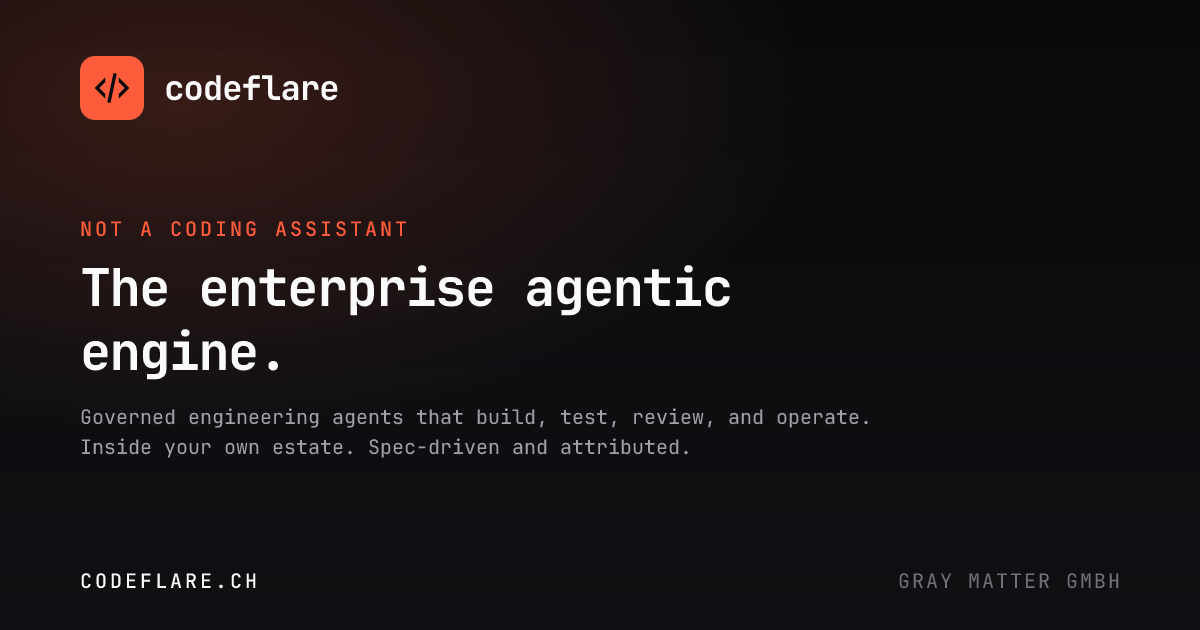
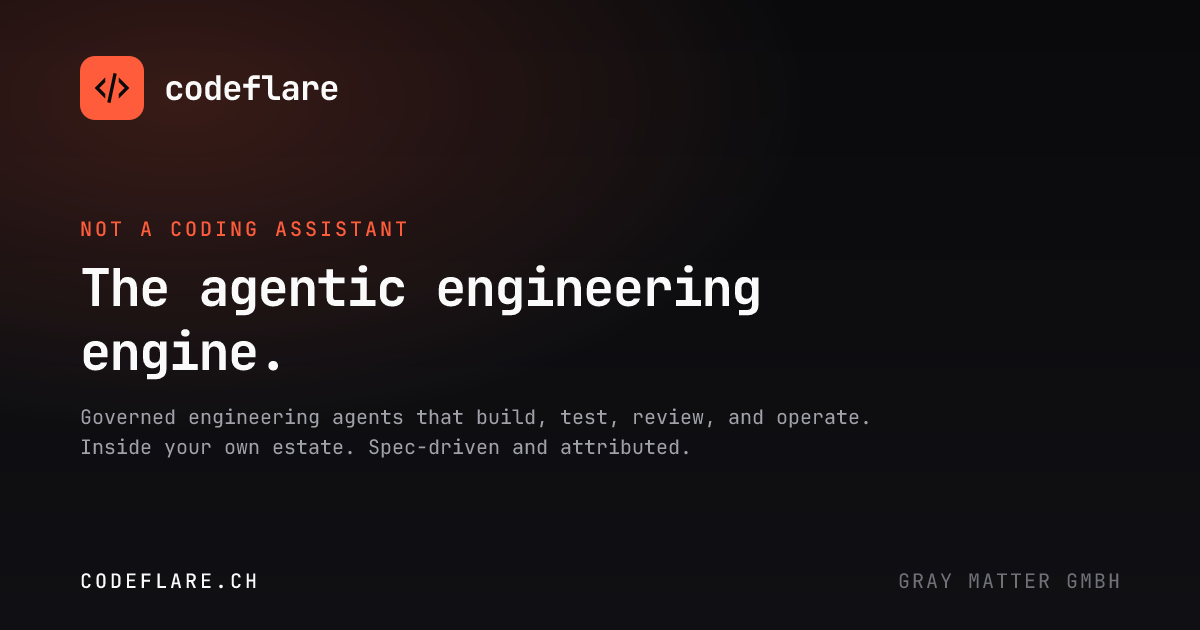
feat: unify mobile copy-to-terminal spacing via --gap-copy-terminal token; hero 'Get in touch' micro-cta; regenerate OG card as 'The agentic engineering engine'

Changed region(s): [[0.1542, 0.4222, 0.555, 0.5127], [0.5858, 0.4222, 0.6475, 0.5127]]

diff --git a/landing/src/styles/global.css b/landing/src/styles/global.css
@@ -151,7 +151,7 @@ svg {
 
 .section-head {
   max-width: 44rem;
-  margin-bottom: clamp(1.75rem, 3vw, 2.5rem);
+  margin-bottom: var(--gap-copy-terminal);
 }
 
 /* Section / sub-section marker, in the page's own terminal language: a path tag
@@ -381,13 +381,14 @@ svg {
 
 /* "Sign in" goes to the SPA /login provider chooser (GitHub / Google / OIDC /
    one-time-pin), which starts the OAuth flow. NOT /app/ (that bounces an
-   unauthenticated visitor back to the landing). Kept lighter than the primary
-   CTA so "Book a demo" stays the lead action. Visible at every width. */
+   unauthenticated visitor back to the landing). A light nav affordance, distinct
+   from the page's primary "Get in touch" CTA. Visible at every width. */
 
-/* The sign-in CTA reads "Enter Matrix" in the page accent coral and decodes
-   on hover/focus (scramble.ts [data-scramble-hover]). aria-label keeps it "Sign
-   in". Solid coral, not the flare gradient, so the churning word spans render
-   coral instead of the gradient-clip transparent. */
+/* The sign-in CTA reads "Enter Matrix" in the primary white (--text-primary,
+   matching body text and the Inference Mesh heading) and decodes on hover/focus
+   (scramble.ts [data-scramble-hover]). aria-label keeps it "Sign in". Solid white,
+   not the flare gradient, so the churning word spans render white instead of the
+   gradient-clip transparent. */
 .nav-signin--matrix {
   color: var(--text-primary);
   white-space: nowrap;
@@ -485,13 +486,6 @@ svg {
   line-height: 1.5;
 }
 
-.hero-cta {
-  display: flex;
-  flex-wrap: wrap;
-  gap: 0.85rem;
-  margin-top: 2rem;
-}
-
 .hero-terminal {
   margin-top: clamp(2rem, 5vw, 3rem);
 }
@@ -537,7 +531,10 @@ svg {
    -------------------------------------------------------------------------- */
 .mesh-hero-grid {
   display: grid;
-  gap: clamp(2rem, 5vw, 4.5rem);
+  /* Row-gap is the shared copy->terminal rhythm (mobile stack); column-gap is the
+     wider hero gutter on desktop. Matches .split-band so every copy+terminal pair
+     spaces identically. */
+  gap: var(--gap-copy-terminal) clamp(2rem, 5vw, 4.5rem);
   align-items: center;
 }
 
@@ -601,10 +598,17 @@ svg {
    fills its half instead of stretching full-width with a dead right gutter. Single
    column on mobile (copy above the terminal); side by side from 820px. Stacked bands
    are separated by their own vertical gap. */
+/* Row-gap is the shared copy->terminal rhythm (used when the band stacks on mobile);
+   column-gap is the wider side-by-side gutter on desktop. The inner section head must
+   not also carry its own bottom margin, or on mobile it stacks on top of the row-gap
+   and doubles the space (the bug that made these bands drift from a plain section). */
 .split-band {
   display: grid;
-  gap: clamp(1.5rem, 4vw, 2.75rem);
+  gap: var(--gap-copy-terminal) clamp(1.5rem, 4vw, 2.75rem);
   align-items: center;
+}
+.split-band > .section-head {
+  margin-bottom: 0;
 }
 .split-band + .split-band {
   margin-top: clamp(1.75rem, 4vw, 2.75rem);

diff --git a/landing/src/__tests__/index-page.test.ts b/landing/src/__tests__/index-page.test.ts
@@ -148,14 +148,14 @@ describe('hero top line (capability ticker)', () => {
     expect(Array.from(words).map((word) => word.textContent?.trim())).toEqual(HERO.kicker.words);
   });
 
-  it('renders a single primary hero CTA from the content model and no secondary button', () => {
-    const cta = body.querySelector('.hero-cta')!;
-    const buttons = cta.querySelectorAll('.btn');
-    expect(buttons).toHaveLength(1);
-    expect(buttons[0].classList.contains('btn-primary')).toBe(true);
-    expect(cta.querySelector('.btn-ghost')).toBeNull();
-    expect(buttons[0].textContent?.trim()).toBe(HERO.primaryCta.label);
-    expect(buttons[0].getAttribute('href')).toBe(HERO.primaryCta.href);
+  it('renders a single hero CTA as the shared micro-cta link from the content model, no button', () => {
+    const copy = body.querySelector('.hero-copy')!;
+    const links = copy.querySelectorAll('.micro-cta a');
+    expect(links).toHaveLength(1);
+    expect(links[0].textContent?.trim()).toBe(HERO.primaryCta.label);
+    expect(links[0].getAttribute('href')).toBe(HERO.primaryCta.href);
+    // No filled/ghost buttons remain in the hero.
+    expect(copy.querySelector('.btn')).toBeNull();
   });
 });
 

diff --git a/landing/src/content/site.ts b/landing/src/content/site.ts
@@ -177,9 +177,9 @@ export const HERO = {
     'Codeflare runs governed engineering agents inside your own estate. Each change is backed by a ' +
     'spec, proven by tests, documented, and handed to your team to approve, whether that is a ' +
     'pull request to merge or a change to run.',
-  // One CTA only, in the bracketed command style shared with the contact form's
-  // "[ Send message ]" submit, so the page's two primary actions read the same.
-  primaryCta: { label: '[ Book a demo ]', href: '#contact' } satisfies Cta,
+  // One CTA, rendered as the shared .micro-cta text link (same treatment as the
+  // dogfood and Inference Mesh "See it on GitHub ->" links), pointing at the contact form.
+  primaryCta: { label: 'Get in touch', href: '#contact' } satisfies Cta,
 };
 
 /**

diff --git a/landing/src/styles/tokens.css b/landing/src/styles/tokens.css
@@ -108,6 +108,12 @@
   /* Spacing rhythm */
   --section-y: clamp(1.5rem, 1rem + 2vw, 2.75rem);
   --gap: clamp(1rem, 0.6rem + 1.5vw, 1.75rem);
+  /* Vertical rhythm between a copy block (a section head or the hero/mesh copy) and
+     the proof terminal it introduces. One value so a standard section, a split band,
+     and the mesh hero space head -> terminal identically on mobile (where they stack)
+     instead of each drifting. Reused as .section-head margin-bottom and as the
+     row-gap of .split-band / .mesh-hero-grid. */
+  --gap-copy-terminal: clamp(1.75rem, 3vw, 2.5rem);
 
   /* Layout */
   --max-width: 72rem;

diff --git a/sdd/spec/landing.md b/sdd/spec/landing.md
@@ -50,6 +50,7 @@ Public enterprise marketing landing page (codeflare.ch), its mode-aware serving,
 - The rendered marketing copy is vendor-neutral: the prose, FAQ, and ledger name no underlying cloud platform, so the page reads as a standalone product. The trust-logo strip may include a platform vendor's mark (relationship-neutral, alphabetical), and functional third-party script URLs (e.g. the bot-protection loader) are exempt as non-copy.
 - Sections are separated by background tint, vertical rhythm, and a per-section terminal-path tag (the `.kicker` element rendered as `~/<name>`: mono, lowercase, with a CSS `~/` accent prefix), never a horizontal rule: every top-level section opens the same way (the tag, then the h2 and lead, full width — legacy and context included, no longer a half-width pair), the tag being the calm structural cue that replaced the removed numbered spine and the earlier uppercase kicker eyebrow (a generic AI tell, and against this page's own anti-references). The five nav-pillar sections reuse their pillar word as the tag (content keeps the capitalised word, e.g. `Security`; CSS lowercases it). Subordinate `.substation` sub-blocks carry a NESTED tag one path level deeper (`~/security/operations`, `~/cost/tenancy`, `~/platform/runs-everywhere`, `~/context/drives`) so the path depth — not size alone — marks them as sub-sections, and their head uses the `--fs-subhead` size (a decisive step above the card terms), their lead held at the section `--fs-lead`. The type scale is disciplined: sans prose uses only the token sizes (kicker/display/h2/subhead/h3/lead/body/small) with one interactive-control size (`--fs-ui`) for buttons, inputs, and SSO rows, and terminals use three mono sizes total (`--fs-mono` body · `--fs-mono-ui` chrome and dense-table rows · `--fs-mono-micro` captions and column heads), every terminal sharing one body rhythm so none reads as cramped. Every terminal header shares one chrome combination (dots + a calm muted `--fs-mono-ui` title, modelled on the hero terminal): the load-bearing ids (REQ-PAY-014, PR #207) stay but in the muted tone, never per-terminal coral or white or micro-uppercase, so the headers align across the page. Under-terminal sub-block card terms (operations, runs-everywhere, cost) are sentence case in the same heading family as the rest of the page: the page carries exactly one heading case, with the three levels (section `h2` > substation `--fs-subhead` sub-head > card term and its explanation) separated on size + weight + colour together rather than by switching any level to all-caps; the card term is `--fs-body` semibold primary (white) over its `--fs-body` regular secondary (grey) explanation — a term/definition pair distinguished by weight and colour at one size — while the sub-section head sits a decisive step larger at `--fs-subhead`, so no two levels collide in size. The contact section's intro paragraph and its quieter note both take `--fs-lead` (it is that section's lead), the note set apart by a top margin rather than a size step. The trust marks are wordmark-free and share one bounding box (a single aspect-ratio box with `object-fit: contain`, normalizing the visual weight of marks with differing aspect ratios rather than relying on a single shared height, which had let the one wide mark dominate the row); at rest they render in a calm desaturated tone (grayscale with lifted brightness and reduced opacity) and restore full colour on hover or keyboard focus, the tone transition respecting `prefers-reduced-motion`. Disclosure open/close animation (the FAQ items and the login page's enterprise-SSO `<details>`, which share one global `::details-content` rule) is pure CSS via `::details-content` + `interpolate-size`, gated on `prefers-reduced-motion` with a snap fallback, and snaps gracefully on browsers lacking `::details-content`; no JS.
 - The proof artifacts are bound to one spine run (`REQ-PAY-014` / `AC3` / `PR #207`, user `t.anderson`, team `payments`; a fictional example run shown as on-page copy, not a requirement this codebase governs), sourced once in `site.ts` so the IDs cannot drift between the hero transcript, the enforcement gate, the egress-inspection strip, the review board, and the cost ledger. The boundary data-path and the browser-isolation context pipe are structural diagrams rendered alongside them, not ID-keyed to the spine.
+- Layout spacing is controlled centrally, not tuned per section. The gap between a copy block (a section head, or the hero / mesh copy) and the proof terminal it introduces is one shared token, `--gap-copy-terminal`, reused as `.section-head`'s bottom margin and as the row-gap of `.split-band` and `.mesh-hero-grid`, so a plain section, a split band, and the mesh hero space head -> terminal identically when they stack on mobile; a split band's inner section head drops its own bottom margin so it never doubles against the grid row-gap. The primary calls to action also share one treatment: the hero, Inference Mesh, and dogfood CTAs are all the `.micro-cta` coral text link (`MicroCta.astro`), not a filled button.
 
 **Priority:** P1
 
@@ -94,7 +95,7 @@ Public enterprise marketing landing page (codeflare.ch), its mode-aware serving,
 
 ### REQ-LANDING-003: Landing social-share and search metadata
 
-**Intent:** When codeflare.ch is shared or indexed, the unfurl and search snippet communicate the enterprise agentic-coding-engine positioning with a branded preview card, structured data, and root discoverability documents, while private (default/enterprise) deployments stay out of the index.
+**Intent:** When codeflare.ch is shared or indexed, the unfurl and search snippet communicate the agentic-engineering-engine positioning with a branded preview card, structured data, and root discoverability documents, while private (default/enterprise) deployments stay out of the index.
 
 **Applies To:** User
 
@@ -103,7 +104,7 @@ Public enterprise marketing landing page (codeflare.ch), its mode-aware serving,
 1. The landing exposes the full Open Graph set: `og:type`, `og:site_name`, `og:title`, `og:description`, `og:url`, `og:image` (1200x630 with type/alt), `og:locale`. <!-- @impl: landing/src/layouts/BaseLayout.astro --> <!-- @test: landing/src/__tests__/metadata.test.ts (OG meta tags: og:type/site_name/url/image present, title/description non-empty) -->
 2. Twitter Card metadata is set with `summary_large_image` plus title, description, image, and image alt. <!-- @impl: landing/src/layouts/BaseLayout.astro --> <!-- @test: landing/src/__tests__/metadata.test.ts (Twitter Card meta: twitter:card=summary_large_image + image) -->
 3. The canonical URL is the served root (`https://codeflare.ch/`), not the `/landing/` asset path. <!-- @impl: landing/src/layouts/BaseLayout.astro --> <!-- @test: landing/src/__tests__/metadata.test.ts (canonical link element with href) -->
-4. The meta description and OG description carry the enterprise positioning ("enterprise agentic engine") as the canonical external description of the product. <!-- @impl: landing/src/layouts/BaseLayout.astro --> <!-- @test: landing/src/__tests__/metadata.test.ts (meta description present, non-empty content) -->
+4. The social-share card and structured data carry the product's canonical positioning phrase, "agentic engineering engine": the OG image tagline (`og.svg`, rasterized to `og.png`), the `og:title`, and the `Organization` / `SoftwareApplication` JSON-LD descriptions; the meta and OG description give the fuller external summary. <!-- @impl: landing/src/layouts/BaseLayout.astro --> <!-- @impl: landing/src/pages/index.astro --> <!-- @impl: web-ui/public/og.svg --> <!-- @test: landing/src/__tests__/metadata.test.ts (meta description present, non-empty content) -->
 5. The landing emits a JSON-LD `@graph` of schema.org structured data: a site-wide `Organization` (named, logo, `sameAs` the public repo) and `WebSite`, with the home page grafting on a `SoftwareApplication` entity, so search engines and LLMs resolve Codeflare to a named entity. <!-- @impl: landing/src/layouts/BaseLayout.astro --> <!-- @test: landing/src/__tests__/metadata.test.ts (JSON-LD @graph parses with Organization + WebSite types) -->
 6. The Worker serves discoverability documents at the deployment root, gated on the public landing being active (SaaS or onboarding): `robots.txt` (allows the marketing surface, excludes `/app`, `/api`, `/auth`, `/login`, `/setup`, and points at the sitemap), `sitemap.xml` (the indexable routes at the canonical origin, login excluded), and `llms.txt` (the llms.txt-convention product summary). In a private (default/enterprise) deployment `robots.txt` disallows all crawling and `sitemap.xml` / `llms.txt` return 404. <!-- @impl: src/lib/seo.ts --> <!-- @impl: src/index.ts --> <!-- @test: src/__tests__/lib/seo.test.ts (buildRobotsTxt public/private, buildSitemapXml urlset/canonical/no-login, buildLlmsTxt convention) --> <!-- @test: src/__tests__/index.test.ts (Edge robots/sitemap/llms public vs private serving) -->
 7. The landing declares a `theme-color` and an `apple-touch-icon` for mobile share/install surfaces. <!-- @impl: landing/src/layouts/BaseLayout.astro --> <!-- @test: landing/src/__tests__/metadata.test.ts (theme-color + apple-touch-icon emitted) -->

diff --git a/sdd/spec/changes.md b/sdd/spec/changes.md
@@ -2,6 +2,12 @@
 
 Semantic changes to the specification. Git history captures diffs; this file captures intent.
 
+## 2026-07-11
+
+- **OG / social-share card retagged "The agentic engineering engine"** ([REQ-LANDING-003](landing.md#req-landing-003-landing-social-share-and-search-metadata) Intent + AC4 amended; stays Implemented). Owner-directed positioning change on the share card: the OG image tagline (`web-ui/public/og.svg`, rasterized to `og.png` via `web-ui/scripts/rasterize-og.mjs`) changes from `The enterprise agentic engine.` to `The agentic engineering engine.`, and every metadata surface that literally carried the old phrase follows: the `<title>` / `og:title` default, the `og:image:alt` and `twitter:image:alt`, and the `Organization` + `SoftwareApplication` JSON-LD descriptions, plus the README's embedded card (`documentation/images/og.png` refreshed, alt text updated). The meta/OG description body is unchanged (it never named the phrase). The live hero keeps its `enterprise agentic [word] engine` capability reel (a distinct interactive treatment); this change is scoped to the static share card and structured data. Behavioral coverage: `metadata.test.ts` still asserts the OG/Twitter tag set and non-empty title/description (no text pinned). **Status:** REQ-LANDING-003 stays Implemented.
+
+- **Mobile copy-to-terminal spacing unified behind one token; hero CTA folded into the shared micro-cta** ([REQ-LANDING-001](landing.md#req-landing-001-mode-aware-public-landing-serving) new spacing/CTA constraint; stays Implemented). Owner reported drifting, too-large gaps on mobile between a copy block and the terminal below it in the legacy, Inference Mesh, and both context bands. Root cause: inside `.split-band` / `.mesh-hero-grid`, the inner copy block carried its own bottom margin, which stacked on top of the grid row-gap when the band collapsed to one column on mobile, doubling the space (a plain section has only the one margin). Fix, controlled centrally: a new `--gap-copy-terminal` token holds the copy-to-terminal rhythm and is reused as `.section-head`'s bottom margin and as the row-gap of `.split-band` and `.mesh-hero-grid` (the wider desktop column-gap kept via the two-value `gap`), and `.split-band > .section-head` drops its bottom margin so it never doubles; a plain section, a split band, and the mesh hero now space head-to-terminal identically. Separately, the hero's `[ Book a demo ]` filled button becomes a `Get in touch` `.micro-cta` coral text link (the same treatment as the Inference Mesh and dogfood `See it on GitHub ->` links); the dead `.hero-cta` wrapper and CSS are removed. Behavioral coverage: `index-page.test.ts` (the hero renders exactly one `.micro-cta` link from the content model, with no `.btn`). **Status:** REQ-LANDING-001 stays Implemented.
+
 ## 2026-07-10
 
 - **Owner visual pass 2: operations before security, hero + header CTA restyle, Zero Trust caps, ops/inference FAQs, Context + Legacy split-band spacing** ([REQ-LANDING-001](landing.md#req-landing-001-mode-aware-public-landing-serving) AC1 document-order + legacy-layout amended; [REQ-LANDING-006](landing.md#req-landing-006-enter-the-matrix-sign-in-cta) AC3 colour amended; both stay Implemented). Seven owner-directed items, presentation + copy: (1) the `~/operations` peer section moves ahead of `~/security` so build (method, legacy) and operate read as the two halves of what agents do before the boundary that governs both; operations takes the alt tint, security drops it. (2) The `~/context` -> `~/context/automation` gap is tightened to the same category-to-subcategory spacing as every other pair: a substation sub-head that heads its own split band no longer also carries the full `.substation` top margin (`.split-band > .substation { margin-top: 0 }`), so the tight `.split-band + .split-band` gap alone spaces the bands. (3) The legacy/adoption section, previously a half-empty full-width terminal, becomes a copy-left / terminal-right split band. (4) The hero drops the secondary `See the shift` ghost button and relabels its one remaining CTA `[ Book a demo ]`, in the bracketed command style shared with the contact form's `[ Send message ]` submit. (5) The header `Enter Matrix` sign-in CTA recolours from accent coral to `--text-primary` white (the regular text colour, matching the `Inference Mesh` heading), keeping its hover-scramble decode. (6) Two FAQ items added from the typed model: `Do we have to use the Inference Mesh?` (optional additional source; hosted providers stay default or fallback) and `Can agents operate infrastructure, not just write code?` (the operate surface, Zero Trust reach, proposed/approved/evidenced). (7) The security section title capitalises the brand phrase: `Built on a zero-trust foundation.` becomes `Built on a Zero Trust foundation.` Behavioral coverage: `index-page.test.ts` (section order equals the reordered SECTION_ORDER; the hero renders a single `.btn-primary` CTA from the content model and no `.btn-ghost`; FAQ item count tracks `FAQ_ITEMS.length`); `components.test.ts` (the sign-in CTA keeps the `nav-signin--matrix` modifier and `data-scramble-hover`). All rendered copy free of en/em dashes (CI tripwire). **Status:** REQ-LANDING-001, REQ-LANDING-006 stay Implemented.

diff --git a/README.md b/README.md
@@ -1,6 +1,6 @@
 # <img src="documentation/images/logo-icon.svg" width="28" align="absmiddle" alt="Codeflare logo"> Codeflare
 
-![Codeflare: the enterprise agentic engine. Governed engineering agents inside your own estate.](documentation/images/og.png)
+![Codeflare: the agentic engineering engine. Governed engineering agents inside your own estate.](documentation/images/og.png)
 
 **Not a coding assistant. The enterprise agentic engine.**
 
